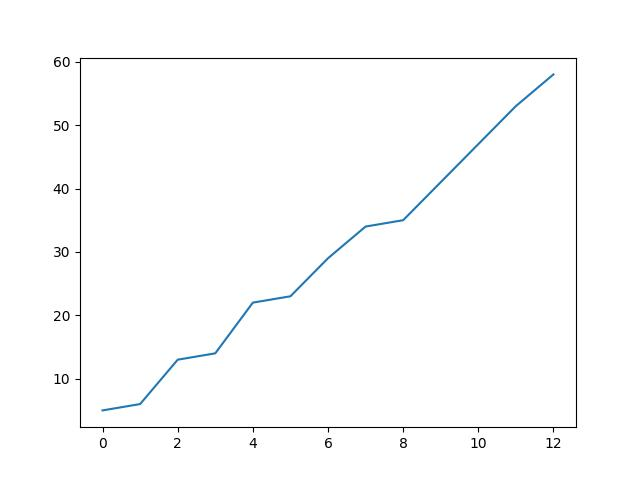
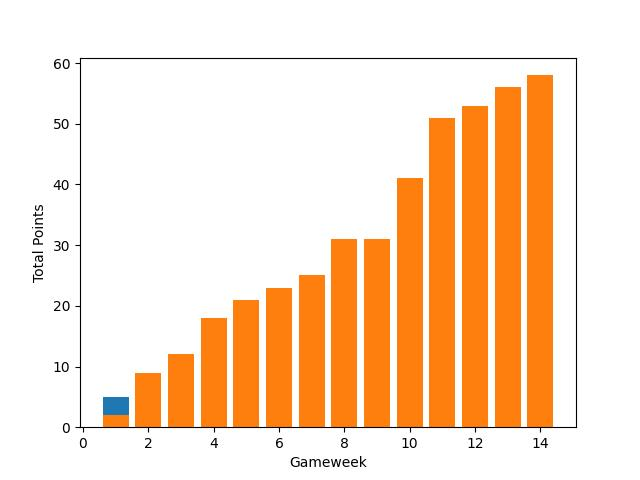
Can display bar/line graphg on webpage and get id from player.

diff --git a/web/templates/index.html b/web/templates/index.html
@@ -9,6 +9,13 @@
 <body>
     <a href="dbase.html">link</a>
     <div>
+        <form method="POST"> 
+            <textarea name="textbox"></textarea>
+            Please tick if you want to add on to graph<input type="checkbox" name="addOn">
+            <button type="submit" name="submit">Submit</button>
+          </form>
+    </div>
+    <div>
         <img src="../static/plot.jpg">
     </div>
 </body>

diff --git a/web/app.py b/web/app.py
@@ -3,6 +3,8 @@ import requests as rq
 import fpl_functions as fpl
 import pandas as pd
 import warnings
+import matplotlib
+matplotlib.use('Agg')
 import matplotlib.pyplot as plt
 
 #supress warnings
@@ -43,8 +45,10 @@ for week, ids in gws.iterrows():
 player_id = 10
 # player_id = fpl.find_player_code(database, player_name)
 gw_points, total_points = fpl.player_weekPoints(player_id)
-x_axis = range(1, len(total_points))
-plt.plot(x_axis, total_points)
+x_axis = [x for x in range(1, len(total_points) + 1)]
+print(len(x_axis))
+print(len(total_points))
+plt.bar(x_axis, gw_points)
 plt.ylabel("Total Points")
 plt.xlabel("Gameweek")
 plt.savefig('c:/Users/chira/Documents/Coding/FPL/web/static/plot.jpg')
@@ -54,6 +58,20 @@ plt.savefig('c:/Users/chira/Documents/Coding/FPL/web/static/plot.jpg')
 @app.route("/")
 def index():
     return render_template("index.html", tables = [slim_main_df.to_html(classes='data')], titles=slim_main_df.columns.values)
+
+@app.route('/', methods=['POST'])
+def my_form_post():
+    player_id = request.form['textbox']
+    gw_points, total_points = fpl.player_weekPoints(player_id)
+    x_axis = range(1, len(total_points))
+    #plt.close()
+    x_axis = [x for x in range(1, len(total_points) + 1)]
+    plt.bar(x_axis, total_points)
+    plt.ylabel("Total Points")
+    plt.xlabel("Gameweek")
+    plt.savefig('c:/Users/chira/Documents/Coding/FPL/web/static/plot.jpg')
+    print(player_id)
+    return render_template("index.html")
 
 @app.route("/dbase.html")
 def dbase():

diff --git a/web/fpl_functions.py b/web/fpl_functions.py
@@ -66,7 +66,7 @@ def sort_db(name, db):
 
 # Obtain points
 def player_weekPoints(player_id):
-    points_api = 'https://fantasy.premierleague.com/api/element-summary/' + str(player_id) + '/'
+   
     points_api = 'https://fantasy.premierleague.com/api/element-summary/' + str(player_id) + '/'
     points_data = rq.get(points_api)
     points_db = points_data.json()
